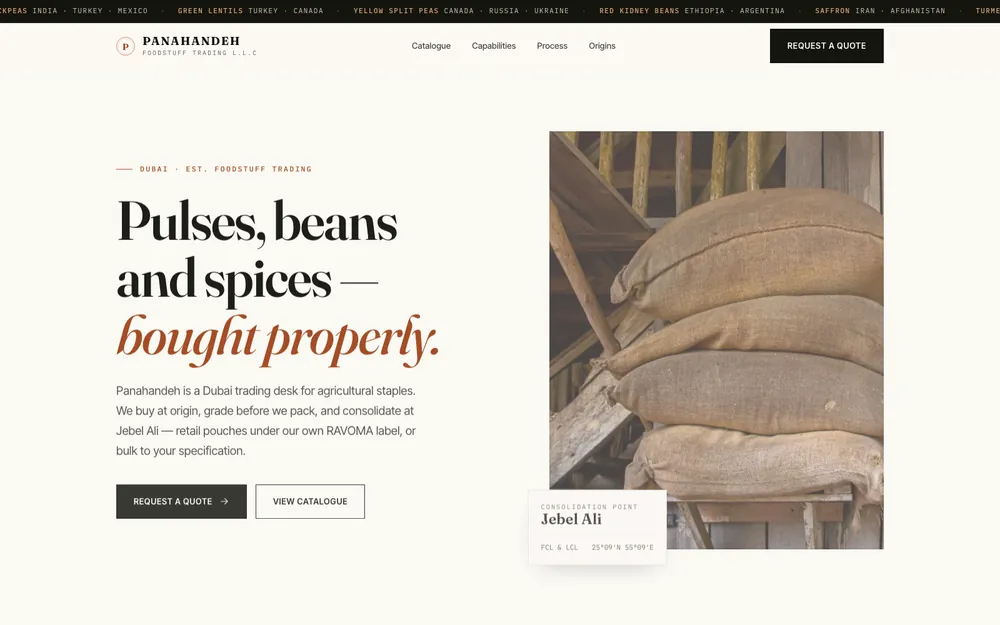
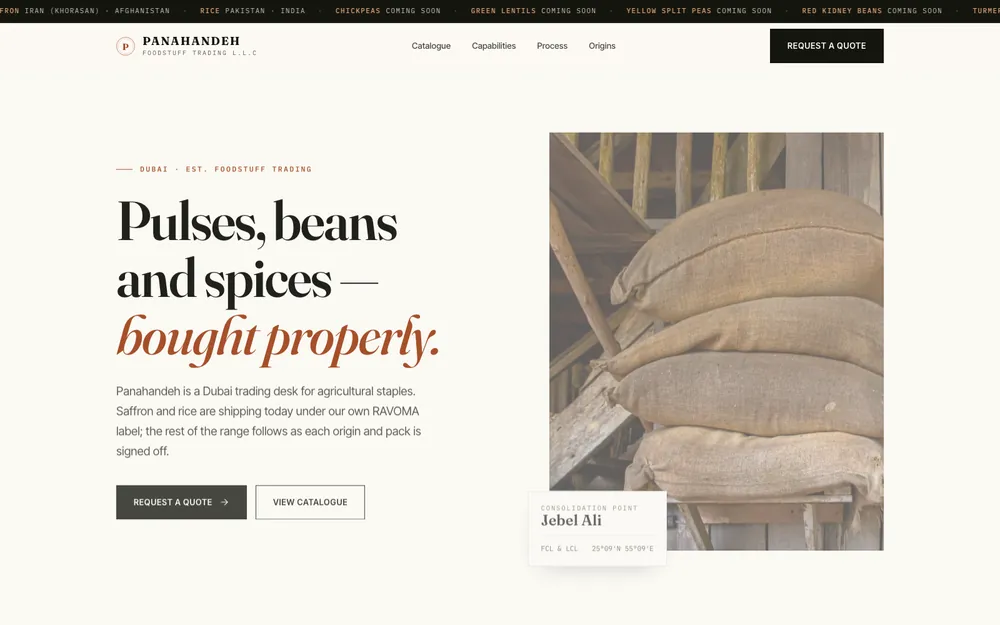
Use the real RAVOMA packaging, and mark what is actually shipping
The client supplied six saffron packaging design sheets. The clean
product panels are cropped out of them into assets/, and design 02 now
uses real photography of the client's own packs instead of stock saffron.

Design 02's catalogue also stops implying the whole range is orderable:

- Every row carries a thumbnail, so the table reads as a product list
  rather than a spreadsheet. Saffron uses the real 10 g pocket tin.
- Saffron and rice are tagged "Shipping now"; the other seven are
  "Coming soon", with their thumbnails desaturated and their names
  muted. A "Shipping now" filter narrows the table to what can be
  ordered today.
- Rice is new to the range, with basmati photography, and gets its own
  filter alongside pulses and spices. Nine lines in total.
- The section heading, hero copy, ticker, capability text and the
  enquiry form's commodity list all follow the same distinction.
- Below the table, a strip shows four of the five real saffron formats:
  10 g pocket dispenser, 20 g drawer box, 100 g round tin, 200 g gift
  box.

The spec columns are now fixed grid tracks instead of a flex row, so
Origin, Grade and Format line up down the whole table, and they switch
on at 1000px rather than 900px — below that each column wrapped to two
lines and the table lost its shape.

Worth knowing: the packs carry a TP monogram as the Panahandeh mark. The
"P" seal in the header and favicons was drawn before these renders
[…]

diff --git a/v2/index.html b/v2/index.html
@@ -214,30 +214,50 @@ em.acc{ font-style:italic; color:var(--clay); font-weight:500 }
 
 .cat{ border-top:1px solid var(--ink) }
 .row{
-  display:grid; grid-template-columns:1fr auto; gap:6px 18px; align-items:center;
-  padding:22px 0; border-bottom:1px solid var(--line); cursor:pointer;
+  display:grid; grid-template-columns:auto 1fr auto; gap:6px 16px; align-items:center;
+  padding:16px 0; border-bottom:1px solid var(--line); cursor:pointer;
   transition:background .3s var(--ease),padding .3s var(--ease); position:relative;
 }
+.row-thumb{
+  position:relative; overflow:hidden; width:54px; height:68px; flex:none;
+  background:var(--bone-2); align-self:center;
+}
+.row-thumb img{ position:absolute; inset:0; width:100%; height:100%; object-fit:cover;
+  transition:transform .7s var(--ease) }
+.row:hover .row-thumb img{ transform:scale(1.08) }
+@media(min-width:1000px){ .row-thumb{ width:64px; height:80px } }
 .row::before{ content:''; position:absolute; left:0; top:0; bottom:0; width:0; background:var(--clay); transition:width .35s var(--ease) }
 .row:hover,.row:focus-visible{ background:var(--bone); padding-inline:16px }
 .row:hover::before{ width:3px }
 .row[hidden]{ display:none }
-.row-main{ display:flex; align-items:baseline; gap:14px; flex-wrap:wrap; min-width:0 }
-.row-idx{ font-family:'IBM Plex Mono',monospace; font-size:11px; color:var(--muted); flex:none; width:26px }
+.row-main{ display:flex; align-items:baseline; gap:6px 14px; flex-wrap:wrap; min-width:0 }
+.row-idx{ font-family:'IBM Plex Mono',monospace; font-size:11px; color:var(--muted); flex:none; width:24px }
 .row-nm{ font-family:Fraunces,serif; font-size:clamp(1.25rem,2.2vw,1.6rem); font-weight:600; letter-spacing:-.012em; line-height:1.1 }
 .row-ar{ font-size:15px; color:var(--muted); direction:rtl; font-family:'Noto Naskh Arabic','Amiri',serif }
 .row-meta{ display:none; gap:32px; align-items:center }
-@media(min-width:900px){
-  .row{ grid-template-columns:minmax(0,1fr) auto auto; gap:32px }
-  .row-meta{ display:flex }
+@media(min-width:1000px){
+  .row{ grid-template-columns:auto minmax(0,1fr) auto auto; gap:28px }
+  /* fixed tracks rather than flex, so Origin/Grade/Format line up down the whole table */
+  .row-meta{ display:grid; grid-template-columns:repeat(3,minmax(0,1fr)); gap:0 24px; width:min(600px,48vw) }
 }
+@media(min-width:1280px){ .row-meta{ width:660px } }
+
+/* availability ------------------------------------------------ */
+.row-tag.live{ border-color:var(--olive); color:var(--olive); background:rgba(59,74,42,.07) }
+.row-tag.soon{ border-style:dashed; color:var(--muted) }
+.row[data-status="soon"] .row-thumb img{ filter:grayscale(.55) contrast(.95); opacity:.72 }
+.row[data-status="soon"] .row-nm{ color:var(--muted) }
+.row[data-status="soon"]:hover .row-thumb img{ filter:grayscale(0) contrast(1); opacity:1 }
+.dot{ display:inline-block; width:6px; height:6px; border-radius:50%; background:var(--olive); flex:none;
+  margin-inline-end:2px; box-shadow:0 0 0 3px rgba(59,74,42,.16) }
 .row-meta .cell{ min-width:0 }
 .row-meta .k{ font-family:'IBM Plex Mono',monospace; font-size:10px; letter-spacing:.15em; text-transform:uppercase; color:var(--muted); display:block }
-.row-meta .v{ font-size:13.5px; color:var(--body); margin-top:4px; display:block; white-space:nowrap }
-.row-tag{ font-family:'IBM Plex Mono',monospace; font-size:10px; letter-spacing:.14em; text-transform:uppercase;
-  border:1px solid var(--line); padding:5px 10px; color:var(--muted); justify-self:end; white-space:nowrap }
-.row-sub{ grid-column:1/-1; display:flex; flex-wrap:wrap; gap:6px 18px; font-family:'IBM Plex Mono',monospace; font-size:11px; color:var(--muted) }
-@media(min-width:900px){ .row-sub{ display:none } }
+.row-meta .v{ font-size:13.5px; color:var(--body); margin-top:4px; display:block }
+.row-tag{ display:inline-flex; align-items:center; gap:7px; font-family:'IBM Plex Mono',monospace;
+  font-size:10px; letter-spacing:.14em; text-transform:uppercase;
+  border:1px solid var(--line); padding:6px 11px; color:var(--muted); justify-self:end; white-space:nowrap }
+.row-sub{ grid-column:2/-1; display:flex; flex-wrap:wrap; gap:6px 18px; font-family:'IBM Plex Mono',monospace; font-size:11px; color:var(--muted) }
+@media(min-width:1000px){ .row-sub{ display:none } }
 
 /* cursor-following preview (pointer devices only) */
 .preview{
@@ -249,12 +269,24 @@ em.acc{ font-style:italic; color:var(--clay); font-weight:500 }
 .preview.on{ opacity:1; transform:translate(-50%,-50%) scale(1) }
 @media(hover:none),(pointer:coarse),(prefers-reduced-motion:reduce){ .preview{ display:none } }
 
-.cat-foot{ display:flex; flex-wrap:wrap; align-items:center; justify-content:space-between; gap:22px; margin-top:34px;
-  padding:26px; background:var(--bone); border:1px solid var(--line) }
-.cat-foot p{ margin:0; max-width:56ch; color:var(--body); font-size:15px }
-.cat-foot .brandline{ display:flex; align-items:center; gap:13px; margin-bottom:9px }
+.cat-foot{ margin-top:38px; padding:28px; background:var(--ink); color:var(--paper); border:1px solid var(--ink) }
+.cat-foot p{ margin:0; max-width:60ch; color:rgba(251,249,244,.72); font-size:15px; line-height:1.75 }
+.cat-foot .brandline{ display:flex; align-items:center; gap:13px; margin-bottom:10px }
 .cat-foot .brandline img{ width:34px; height:34px }
-.cat-foot .brandline b{ font-family:Fraunces,serif; font-size:19px; letter-spacing:.14em; font-weight:700 }
+.cat-foot .brandline b{ font-family:Fraunces,serif; font-size:20px; letter-spacing:.14em; font-weight:700; color:var(--paper) }
+.cat-foot .top{ display:flex; flex-wrap:wrap; align-items:end; justify-content:space-between; gap:20px }
+.cat-foot .btn{ background:var(--paper); border-color:var(--paper); color:var(--ink) }
+.cat-foot .btn::after{ background:#E9A574 }
+.cat-foot .btn:hover{ color:var(--ink) }
+.packs{ display:grid; gap:2px; margin-top:24px; grid-template-columns:repeat(2,1fr) }
+@media(min-width:700px){ .packs{ grid-template-columns:repeat(4,1fr) } }
+.pack{ position:relative; overflow:hidden; aspect-ratio:4/5; background:#0B0B08 }
+.pack img{ position:absolute; inset:0; width:100%; height:100%; object-fit:cover;
+  transition:transform 1s var(--ease); }
+.pack:hover img{ transform:scale(1.06) }
+.pack span{ position:absolute; left:0; bottom:0; z-index:1; padding:7px 10px;
+  font-family:'IBM Plex Mono',monospace; font-size:10px; letter-spacing:.14em; text-transform:uppercase;
+  background:var(--ink); color:#E9A574 }
 
 /* ==================== CAPABILITIES ==================== */
 .caps{ display:grid; gap:2px; background:var(--line); border:1px solid var(--line) }
@@ -429,9 +461,9 @@ em.acc{ font-style:italic; color:var(--clay); font-weight:500 }
       <p class="eyebrow rev">Dubai · Est. foodstuff trading</p>
       <h1 class="h1 rev" style="--d:.06s">Pulses, beans<br>and spices —<br><em class="acc">bought properly.</em></h1>
       <p class="lede rev" style="--d:.14s">
-        Panahandeh is a Dubai trading desk for agricultural staples. We buy at origin, grade before
-        we pack, and consolidate at Jebel Ali — retail pouches under our own RAVOMA label, or bulk
-        to your specification.
+        Panahandeh is a Dubai trading desk for agricultural staples. Saffron and rice are shipping
+        today under our own RAVOMA label; the rest of the range follows as each origin and pack
+        is signed off.
       </p>
       <div class="hero-cta rev" style="--d:.2s">
         <a href="#contact" class="btn"><span>Request a quote <svg viewBox="0 0 24 24"><use href="#i-arr"/></svg></span></a>
@@ -456,7 +488,7 @@ em.acc{ font-style:italic; color:var(--clay); font-weight:500 }
     <dl class="stats rev" style="--d:.32s">
       <div><dt data-count="12" data-suffix="+">0</dt><dd>Sourcing origins</dd></div>
       <div><dt data-count="40" data-suffix="+">0</dt><dd>Export markets</dd></div>
-      <div><dt data-count="8">0</dt><dd>Core commodities</dd></div>
+      <div><dt data-count="9">0</dt><dd>Lines in the range</dd></div>
       <div><dt data-count="100" data-suffix="%">0</dt><dd>Pre-shipment inspected</dd></div>
     </dl>
   </div>
@@ -479,32 +511,44 @@ em.acc{ font-style:italic; color:var(--clay); font-weight:500 }
     <div class="sec-head">
       <div>
         <p class="eyebrow rev">01 — Catalogue</p>
-        <h2 class="h2 rev" style="--d:.06s">Eight staples.<br><em class="acc">One standard.</em></h2>
+        <h2 class="h2 rev" style="--d:.06s">Two lines shipping.<br><em class="acc">Seven to follow.</em></h2>
       </div>
       <p class="lede rev" style="--d:.12s">
-        Four pulses and beans, four spices. Every line is graded against destination-market
-        requirements before it leaves — no substitutions, no surprises at the port.
+        Saffron and rice are moving now, packed under our own RAVOMA label. The remaining seven
+        lines have their origins secured and their packaging in design, and open in sequence.
       </p>
     </div>
 
     <div class="filters rev" role="group" aria-label="Filter catalogue">
       <button class="chip" data-filter="all" aria-pressed="true">All lines</button>
+      <button class="chip" data-filter="live" aria-pressed="false">Shipping now</button>
       <button class="chip" data-filter="pulses" aria-pressed="false">Pulses &amp; beans</button>
       <button class="chip" data-filter="spices" aria-pressed="false">Spices</button>
+      <button class="chip" data-filter="grains" aria-pressed="false">Rice</button>
     </div>
 
     <div class="cat rev" id="cat" style="--d:.06s"></div>
 
     <div class="cat-foot rev" style="--d:.12s">
-      <div>
-        <div class="brandline">
-          <img src="../assets/mark.webp" alt="" aria-hidden="true" width="400" height="400" loading="lazy">
-          <b>RAVOMA</b>
+      <div class="top">
+        <div>
+          <div class="brandline">
+            <img src="../assets/mark.webp" alt="" aria-hidden="true" width="400" height="400" loading="lazy">
+            <b>RAVOMA</b>
+          </div>
+          <p>Our own saffron label, endorsed by Panahandeh Foodstuff Trading L.L.C. Five retail
+             formats from a 10&nbsp;g pocket dispenser to a 300&nbsp;g flagship presentation box —
+             gold foil, embossed Persian motif and a UV-protected window on every one. Bulk and
+             private label come off the same lots.</p>
         </div>
-        <p>Our own retail label — 1&nbsp;kg pouches with premium printing and a freshness seal.
-           Private label and bulk formats available on the same lots.</p>
+        <a href="#contact" class="btn"><span>Request full spec sheet <svg viewBox="0 0 24 24"><use href="#i-arr"/></svg></span></a>
       </div>
-      <a href="#contact" class="btn btn-ghost"><span>Request full spec sheet <svg viewBox="0 0 24 24"><use href="#i-arr"/></svg></span></a>
+      <div class="packs">
+        <figure class="pack" style="margin:0"><img src="../assets/pack-pocket-dark.webp" width="900" height="1180" loading="lazy" decoding="async" alt="RAVOMA 10 g pocket dispenser tin in black"><span>10 g pocket</span></figure>
+        <figure class="pack" style="margin:0"><img src="../assets/pack-drawer.webp" width="1200" height="1120" loading="lazy" decoding="async" alt="RAVOMA 20 g drawer box with glass bottle"><span>20 g drawer</span></figure>
+        <figure class="pack" style="margin:0"><img src="../assets/pack-tin.webp" width="900" height="720" loading="lazy" decoding="async" alt="RAVOMA 100 g embossed round gold tin"><span>100 g tin</span></figure>
+        <figure class="pack" style="margin:0"><img src="../assets/pack-gift.webp" width="1200" height="960" loading="lazy" decoding="async" alt="RAVOMA 200 g black gift box with window"><span>200 g gift box</span></figure>
+      </div>
     </div>
   </div>
 </section>
@@ -638,8 +682,8 @@ em.acc{ font-style:italic; color:var(--clay); font-weight:500 }
       </div>
       <div>
         <h4>Catalogue</h4>
-        <ul><li><a href="#catalogue">Pulses &amp; beans</a></li><li><a href="#catalogue">Spices</a></li>
-            <li><a href="#catalogue">RAVOMA retail</a></li><li><a href="#contact">Private label</a></li></ul>
+        <ul><li><a href="#catalogue">Saffron</a></li><li><a href="#catalogue">Rice</a></li>
+            <li><a href="#catalogue">Pulses &amp; spices</a></li><li><a href="#contact">Private label</a></li></ul>
       </div>
       <div>
         <h4>Get in touch</h4>
@@ -666,28 +710,30 @@ const reduce = matchMedia('(prefers-reduced-motion: reduce)').matches;
 
 /* ---------------------------------------------------------- data */
 const LINES = [
-  { cat:'pulses', en:'Chickpeas',         ar:'حمص',                  img:'chickpeas',
-    origin:'India · Turkey · Mexico',  grade:'Kabuli 8–9 mm',            fmt:'1 kg · 25 kg · 50 kg', hs:'0713.20' },
-  { cat:'pulses', en:'Green Lentils',     ar:'عدس أخضر',              img:'lentils',
+  { cat:'spices', live:true,  en:'Saffron',           ar:'زعفران',                img:'saffron-pack',
+    origin:'Iran (Khorasan) · Afghanistan', grade:'Sargol, ISO 3632 cat. I',  fmt:'10 g · 20 g · 100 g · 200 g · 300 g', hs:'0910.20' },
+  { cat:'grains', live:true,  en:'Rice',              ar:'أرز',                   img:'rice',
+    origin:'Pakistan · India',         grade:'Basmati — sella & steam',   fmt:'1 kg · 5 kg · 25 kg',  hs:'1006.30' },
+  { cat:'pulses', live:false, en:'Chickpeas',         ar:'حمص',                  img:'chickpeas',
+    origin:'India · Turkey · Mexico',  grade:'Kabuli 8–9 mm',             fmt:'1 kg · 25 kg · 50 kg', hs:'0713.20' },
+  { cat:'pulses', live:false, en:'Green Lentils',     ar:'عدس أخضر',              img:'lentils',
     origin:'Turkey · Canada',          grade:'Laird, machine-cleaned',    fmt:'1 kg · 25 kg',         hs:'0713.40' },
-  { cat:'pulses', en:'Yellow Split Peas', ar:'بازلاء صفراء مجروشة',   img:'splitpeas',
+  { cat:'pulses', live:false, en:'Yellow Split Peas', ar:'بازلاء صفراء مجروشة',   img:'splitpeas',
     origin:'Canada · Russia · Ukraine',grade:'Split, 99.5% purity',       fmt:'1 kg · 25 kg',         hs:'0713.10' },
-  { cat:'pulses', en:'Red Kidney Beans',  ar:'فاصولياء حمراء',        img:'kidneybeans',
+  { cat:'pulses', live:false, en:'Red Kidney Beans',  ar:'فاصولياء حمراء',        img:'kidneybeans',
     origin:'Ethiopia · Argentina',     grade:'Dark red, 180–200/100 g',   fmt:'1 kg · 25 kg',         hs:'0713.33' },
-  { cat:'spices', en:'Saffron',           ar:'زعفران',                img:'saffron',
-    origin:'Iran · Afghanistan',       grade:'Sargol, ISO 3632 cat. I',   fmt:'1 g · 5 g · 10 g',     hs:'0910.20' },
-  { cat:'spices', en:'Turmeric',          ar:'كركم',                  img:'turmeric',
+  { cat:'spices', live:false, en:'Turmeric',          ar:'كركم',                  img:'turmeric',
     origin:'India · Iran',             grade:'Ground, 3.5% curcumin',     fmt:'500 g · 25 kg',        hs:'0910.30' },
-  { cat:'spices', en:'Black Pepper',      ar:'فلفل أسود',             img:'blackpepper',
+  { cat:'spices', live:false, en:'Black Pepper',      ar:'فلفل أسود',             img:'blackpepper',
     origin:'Vietnam · India',          grade:'550 g/l, ASTA cleaned',     fmt:'500 g · 25 kg',        hs:'0904.11' },
-  { cat:'spices', en:'Coriander Seeds',   ar:'بذور الكزبرة',          img:'coriander',
+  { cat:'spices', live:false, en:'Coriander Seeds',   ar:'بذور الكزبرة',          img:'coriander',
     origin:'India · Iran · Bulgaria',  grade:'Eagle, 99% purity',         fmt:'500 g · 25 kg',        hs:'0909.21' }
 ];
 
 const CAPS = [
   ['Origin selection','We buy on the season, not the offer sheet. Where a crop underperforms, the origin changes — the specification does not.'],
   ['Grading &amp; cleaning','Sieved, de-stoned and colour-sorted to the agreed calibration. Moisture and foreign-matter limits are fixed in the contract, not negotiated on arrival.'],
-  ['Packing &amp; private label','1 kg retail pouches under RAVOMA, or your artwork on the same lot. Bulk in 25 kg and 50 kg PP or jute.'],
+  ['Packing &amp; private label','Five RAVOMA retail formats for saffron, from a 10 g pocket dispenser to a 300 g presentation box, or your artwork on the same lot. Bulk in 25 kg and 50 kg PP or jute.'],
   ['Consolidation','Mixed-commodity containers built at Jebel Ali so a smaller buyer still ships a full load.'],
   ['Documentation','Phytosanitary, certificate of origin, ISO 3632 for saffron, halal where required — prepared against the destination, not a template.'],
   ['Traceability','Every pouch carries a lot code that resolves to origin, harvest window, cleaning line and packing date.']
@@ -711,8 +757,9 @@ const ORIGINS = [
 
 /* ---------------------------------------------------------- ticker */
 {
-  const items = LINES.map(l => `<span><b>${l.en}</b> ${l.origin}</span>`).join('') +
-                `<span><b>Jebel Ali</b> Consolidation</span><span><b>RAVOMA</b> Retail label</span>`;
+  const items = LINES.map(l =>
+      `<span><b>${l.en}</b> ${l.live ? l.origin : 'Coming soon'}</span>`).join('') +
+    `<span><b>Jebel Ali</b> Consolidation</span><span><b>RAVOMA</b> Saffron label</span>`;
   $('#ticker').innerHTML = `<div class="ticker-group">${items}</div><div class="ticker-group">${items}</div>`;
 }
 
@@ -720,7 +767,10 @@ const ORIGINS = [
 {
   const cat = $('#cat');
   cat.innerHTML = LINES.map((l,i) => `
-    <div class="row" data-cat="${l.cat}" data-img="${l.img}" tabindex="0">
+    <div class="row" data-cat="${l.cat}" data-img="${l.img}" data-status="${l.live ? 'live' : 'soon'}" tabindex="0">
+      <figure class="row-thumb" style="margin:0">
+        <img src="../assets/${l.img}.webp" width="900" height="1200" loading="lazy" decoding="async" alt="${l.en}">
+      </figure>
       <div class="row-main">
         <span class="row-idx">${String(i+1).padStart(2,'0')}</span>
         <span class="row-nm">${l.en}</span>
@@ -731,14 +781,18 @@ const ORIGINS = [
         <span class="cell"><span class="k">Grade</span><span class="v">${l.grade}</span></span>
         <span class="cell"><span class="k">Format</span><span class="v">${l.fmt}</span></span>
       </div>
-      <span class="row-tag">HS ${l.hs}</span>
-      <div class="row-sub"><span>${l.origin}</span><span>${l.grade}</span><span>${l.fmt}</span></div>
+      ${l.live
+        ? `<span class="row-tag live"><i class="dot"></i>Shipping now</span>`
+        : `<span class="row-tag soon">Coming soon</span>`}
+      <div class="row-sub"><span>${l.origin}</span><span>${l.fmt}</span></div>
     </div>`).join('');
 
   $$('.chip').forEach(chip => chip.addEventListener('click', () => {
     const f = chip.dataset.filter;
     $$('.chip').forEach(c => c.setAttribute('aria-pressed', String(c === chip)));
-    $$('.row', cat).forEach(r => { r.hidden = !(f === 'all' || r.dataset.cat === f); });
+    $$('.row', cat).forEach(r => {
+      r.hidden = !(f === 'all' || (f === 'live' ? r.dataset.status === 'live' : r.dataset.cat === f));
+    });
   }));
 
   /* cursor-following preview */
@@ -789,7 +843,8 @@ $('#originList').innerHTML = ORIGINS.map(([c,p]) =>
 
 /* ---------------------------------------------------------- form select */
 $('#f-line').innerHTML = '<option value="">Select a line…</option>' +
-  LINES.map(l => `<option>${l.en}</option>`).join('') + '<option>Multiple / other</option>';
+  LINES.map(l => `<option>${l.en}${l.live ? '' : ' (coming soon)'}</option>`).join('') +
+  '<option>Multiple / other</option>';
 
 /* ---------------------------------------------------------- header */
 {

diff --git a/README.md b/README.md
@@ -67,6 +67,9 @@ assets/
   export.webp               container vessel
   chickpeas|lentils|splitpeas|kidneybeans.webp    pulses and beans
   saffron|turmeric|blackpepper|coriander.webp     spices
+  rice.webp                 basmati, added with the availability pass
+  saffron-pack.webp         RAVOMA 10 g pocket tin, the Saffron catalogue thumbnail
+  pack-*.webp               RAVOMA packaging renders cropped from the client's design sheets
   preview-v1|v2|v3.webp     selector screenshots, regenerated when a design changes
   mark.webp                 RAVOMA brand monogram
   favicon-*.png             16 / 32 / 48 / 512
@@ -79,9 +82,14 @@ brand/                      original client artwork (monogram, full lockup, bran
 
 ## What the three share
 
-The product range is the same across all three: four pulses and beans — chickpeas, green lentils,
+Designs 01 and 03 carry the same eight lines: four pulses and beans — chickpeas, green lentils,
 yellow split peas, red kidney beans — and four spices — saffron, turmeric, black pepper, coriander
-seed. Same origins, same grades, same formats, same photography.
+seed.
+
+**Design 02 is ahead of the other two.** It carries nine lines and marks availability: saffron and
+rice are shipping, and the remaining seven are flagged "coming soon" with their thumbnails
+desaturated. It is also the only design using the client's real RAVOMA packaging renders. If the
+client picks 01 or 03, the same availability treatment needs porting across.
 
 What differs is everything else: palette, typeface, grid, how the catalogue is presented, and what
 each design assumes the buyer came for.
@@ -138,6 +146,11 @@ The catalogue is a table, not a card grid: eight rows carrying origin, grade, fo
 filterable by pulses or spices. On a pointer device, hovering a row raises a product photograph
 that follows the cursor — so the imagery is there when a buyer wants it and out of the way when
 they are scanning specifications.
+
+Each row carries a thumbnail and an availability tag. Saffron uses the client's own pack render;
+the seven unreleased lines are desaturated and tagged "coming soon", and a "Shipping now" filter
+narrows the table to what can actually be ordered. Below the table, a strip shows four of the five
+real RAVOMA saffron formats.
 
 The process rail scrolls horizontally below 1100px with a progress hairline tied to its scroll
 position.
@@ -247,6 +260,10 @@ across a 360px phone otherwise.
 - Point the contact forms at a real handler
 - Swap placeholder photography for the client's own
 - Confirm the Arabic/Persian question above, and whether cumin belongs in the range
+- Decide whether the company mark should be the **TP monogram** that appears on the real packs
+  rather than the "P" seal used in the header and favicons, which was drawn before those renders
+  existed
+- Port design 02's availability treatment to whichever design the client picks
 - Have a native speaker sign off the Persian copy in design 03
 - Remove the version switcher from all three designs, and decide whether the selector page
   stays at the root or the chosen design takes it over

diff --git a/assets/CREDITS.md b/assets/CREDITS.md
@@ -15,10 +15,36 @@ These are stand-ins for the client's own product photography.
 | turmeric.webp | Eva Bronzini | https://www.pexels.com/photo/close-up-shot-of-turmeric-powder-6104651/ |
 | blackpepper.webp | Eva Bronzini | https://www.pexels.com/photo/close-up-photo-of-whole-peppercorns-5988689/ |
 | coriander.webp | Eva Bronzini | https://www.pexels.com/photo/a-pile-of-coriander-seeds-5988179/ |
+| rice.webp | Abdul Rehman | https://www.pexels.com/photo/basmati-rice-grains-15879426/ |
 | band.webp | Engin Akyurt | https://www.pexels.com/photo/sacks-of-beans-and-grains-in-the-market-13612369/ |
 | about.webp | Lucia Barreiros  Silva | https://www.pexels.com/photo/pile-of-brown-sacks-inside-a-wooden-barn-12293641/ |
 | export.webp | Pixabay | https://www.pexels.com/photo/boat-in-body-of-water-262353/ |
 | skyline.webp | Dreamer  Dude | https://www.pexels.com/photo/outstanding-cityscape-of-dubai-across-sea-at-dusk-18341554/ |
+
+## RAVOMA packaging renders (client-owned, not stock)
+
+Cropped from six packaging design sheets the client supplied on 16 Aug 2026. All show RAVOMA
+saffron with a Panahandeh Foodstuff Trading L.L.C endorsement and a **TP monogram** — which is the
+company's real mark, and is not the "P" seal currently used in the site header and favicons.
+
+| File | Format shown | Source sheet |
+|---|---|---|
+| saffron-pack.webp | 10 g pocket dispenser, black — the Saffron catalogue thumbnail | `pack-source-10g-pocket-black` |
+| pack-pocket-dark.webp | 10 g pocket dispenser, black | `pack-source-10g-pocket-black` |
+| pack-pocket-cream.webp | 10 g pocket dispenser, ivory | `pack-source-10g-pocket-ivory` |
+| pack-drawer.webp | 20 g drawer box with glass bottle | `pack-source-20g-drawer-box` |
+| pack-tin.webp | 100 g embossed round gold tin | `pack-source-100g-round-tin` |
+| pack-gift.webp | 200 g black gift box with window | `pack-source-200g-gift-box` |
+| pack-open.webp | 200 g inner tin, open | `pack-source-200g-gift-box` |
+| pack-flagship.webp | 300 g ivory presentation box | `pack-source-300g-presentation-box` |
+
+Panels carrying dimension callouts or caption text were avoided; the crops are the clean product
+shots only.
+
+**The source sheets are deliberately not in the repo.** They are gitignored and kept locally in
+`brand/pack-source-*.jpg`. The cropped product shots above are on the live site regardless, but the
+full sheets also carry dimensions, materials, finishes and the retail barcode, which is unreleased
+commercial detail with no reason to sit in a public repository.
 
 ## Brand assets (client-owned, not stock)
 
